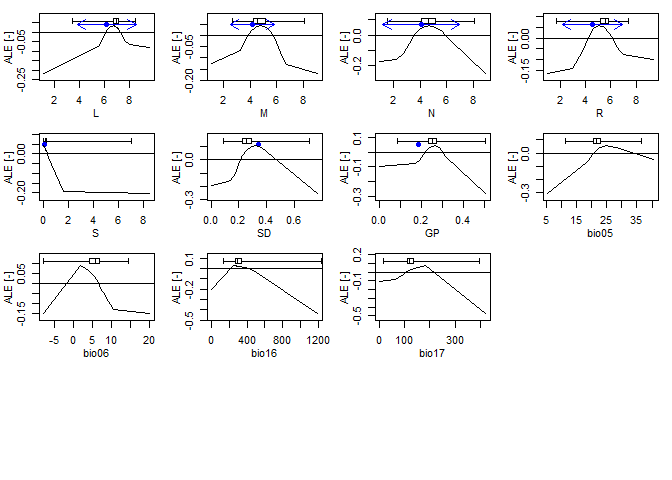
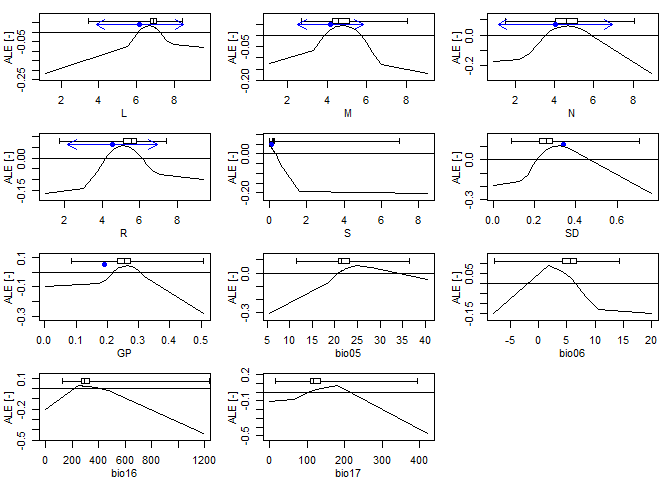
Fixing plot dins, adding note on ales to readme

diff --git a/README.md b/README.md
@@ -204,6 +204,27 @@ elements::plot_me(taxon = "stellaria_graminea",
 
 <img src="man/figures/README-me_plot_print-1.png" width="100%" />
 
+<details>
+<summary>
+<h3 style="display:inline-block">
+⚠ A note on ALE plots
+</h3>
+</summary>
+
+In some instances the ALE curves may reflect ‘inverted’ responses which
+are not ecologically realistic, this is most often seen in situations
+where the distribution of presences along a variable gradient is
+extremely narrow, or where there is a non-unimodal distribution. For
+example, *Gymnocarpium robertianum* has a extremely narrow distribution
+of plot-mean S values, with a maximum value of 1.
+
+In these instances it is important to also visualise the PDP plots,
+which should then be prioritised when inspecting the shape of the
+univariate response.
+
+<img src="man/figures/README-me_plot_gr_s_print-1.png" width="50%" /><img src="man/figures/README-me_plot_gr_s_print-2.png" width="50%" />
+
+</details>
 </details>
 <details>
 <summary>
